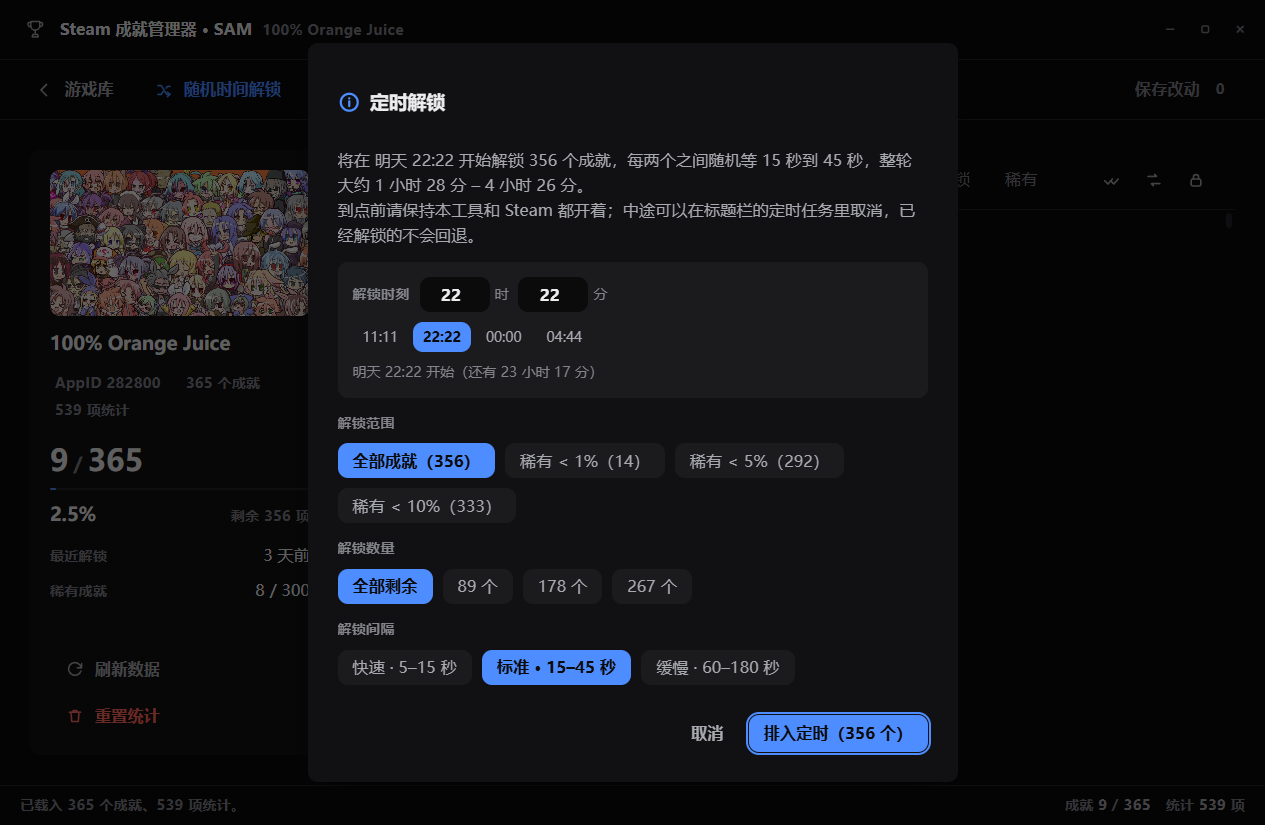
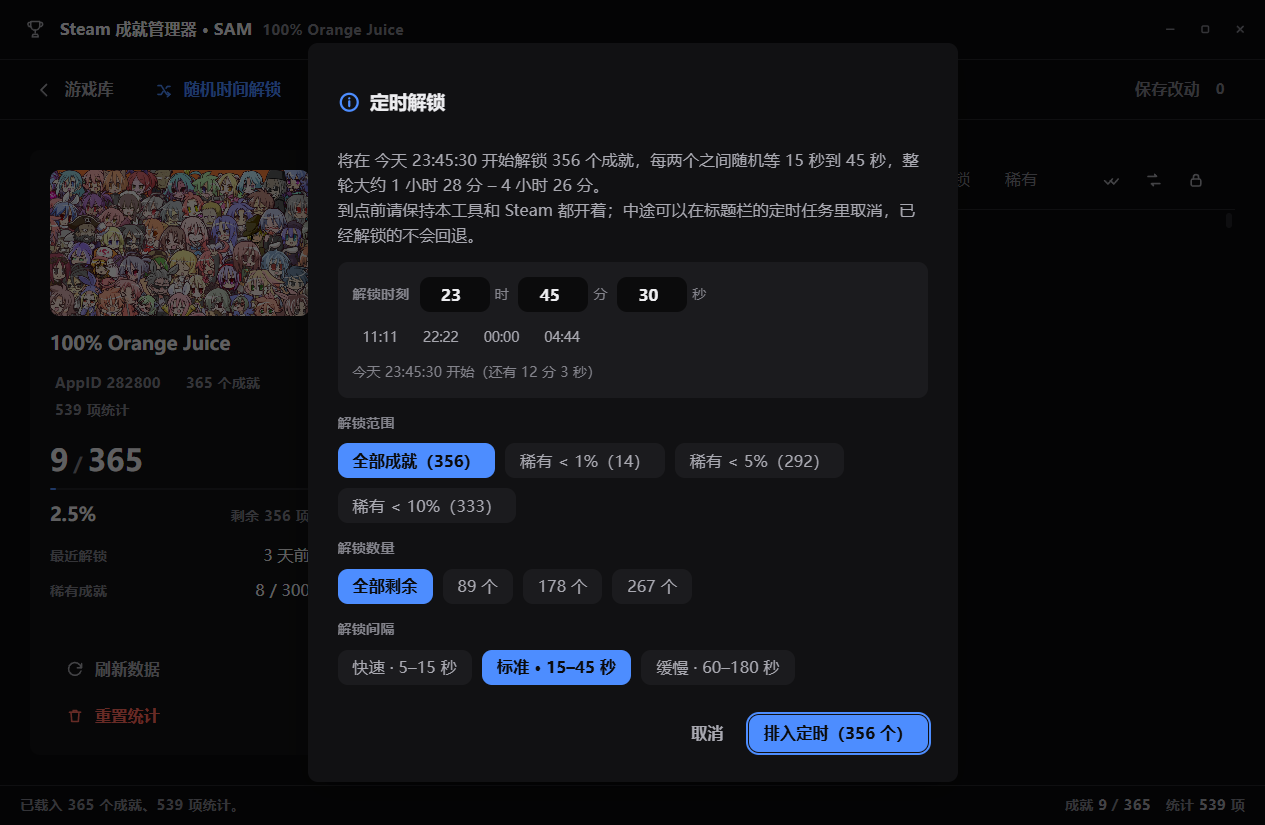
feat: 定时解锁精确到秒（v1.9.1）
解锁时刻增加「秒」输入；worker 改为提前 40 秒拉起、先预热 Steam 与候选成就，再毫秒级等到目标那一秒才开始写入（实测 drift 1ms）。任务列表与标题栏 chip 的时刻带秒显示（秒为 0 时仍显示 HH:mm）。

Changed region(s): [[0.2466, 0.1818, 0.7399, 0.2424], [0.3083, 0.3636, 0.4625, 0.4545], [0.4933, 0.3333, 0.5241, 0.3636]]

diff --git a/ui/app.js b/ui/app.js
@@ -1999,11 +1999,22 @@
     return two(hour) + ':' + two(minute);
   }
 
-  // 把「时 / 分」换算成下一次出现的绝对时刻：今天已经过了（或只剩不到 1 分钟）就顺延到明天。
-  function nextAt(hour, minute) {
+  function hhmmss(hour, minute, second) {
+    return hhmm(hour, minute) + ':' + two(second);
+  }
+
+  // 时刻显示：秒为 0 时省略（22:22 比 22:22:00 顺眼），非 0 才带秒。
+  function clockShort(date) {
+    return date.getSeconds() === 0
+      ? hhmm(date.getHours(), date.getMinutes())
+      : hhmmss(date.getHours(), date.getMinutes(), date.getSeconds());
+  }
+
+  // 把「时 / 分 / 秒」换算成下一次出现的绝对时刻：今天已经过了（或只剩不到 3 秒）就顺延到明天。
+  function nextAt(hour, minute, second) {
     var now = new Date();
-    var d = new Date(now.getFullYear(), now.getMonth(), now.getDate(), hour, minute, 0, 0);
-    if (d.getTime() <= now.getTime() + 60000) d = new Date(d.getTime() + 86400000);
+    var d = new Date(now.getFullYear(), now.getMonth(), now.getDate(), hour, minute, second || 0, 0);
+    if (d.getTime() <= now.getTime() + 3000) d = new Date(d.getTime() + 86400000);
     return d;
   }
 
@@ -2019,7 +2030,7 @@
   }
 
   function clockLabel(date) {
-    return two(date.getMonth() + 1) + '-' + two(date.getDate()) + ' ' + hhmm(date.getHours(), date.getMinutes());
+    return two(date.getMonth() + 1) + '-' + two(date.getDate()) + ' ' + clockShort(date);
   }
 
   function countdownText(date) {
@@ -2062,8 +2073,8 @@
     return RANDOM_GAPS.slice(0, 3);
   }
 
-  // 时刻输入行：时 / 分两个数字框 + 四个快捷时刻
-  function timeRowHtml(hour, minute) {
+  // 时刻输入行：时 / 分 / 秒三个数字框 + 四个快捷时刻
+  function timeRowHtml(hour, minute, second) {
     var h = ['<div class="sch-time">'];
     h.push('<span class="sch-time__cap">解锁时刻</span>');
     h.push('<label class="sch-time__field">');
@@ -2076,6 +2087,11 @@
       '" data-role="minute" aria-label="解锁时刻的分钟" />');
     h.push('<span class="gap-custom__suffix">分</span>');
     h.push('</label>');
+    h.push('<label class="sch-time__field">');
+    h.push('<input class="gap-custom__num" type="number" min="0" max="59" step="1" value="' + (second || 0) +
+      '" data-role="second" aria-label="解锁时刻的秒" />');
+    h.push('<span class="gap-custom__suffix">秒</span>');
+    h.push('</label>');
     h.push('</div>');
     h.push('<div class="sch-quick">');
     for (var i = 0; i < SCHEDULE_QUICK.length; i++) {
@@ -2087,14 +2103,17 @@
   }
 
   // 时刻输入的通用读数 + 收敛：输入框里允许随便打，算的时候夹到合法范围
-  function readClock(hourInput, minuteInput) {
+  function readClock(hourInput, minuteInput, secondInput) {
     var h = Math.floor(Number(hourInput && hourInput.value));
     var m = Math.floor(Number(minuteInput && minuteInput.value));
+    var s = Math.floor(Number(secondInput && secondInput.value));
     if (!isFinite(h)) h = 0;
     if (!isFinite(m)) m = 0;
+    if (!isFinite(s)) s = 0;
     h = Math.max(0, Math.min(23, h));
     m = Math.max(0, Math.min(59, m));
-    return { hour: h, minute: m };
+    s = Math.max(0, Math.min(59, s));
+    return { hour: h, minute: m, second: s };
   }
 
   /* ---------- 标题栏的定时任务入口 ---------- */
@@ -2114,8 +2133,8 @@
     setHidden(els.scheduleChip, false);
     if (els.scheduleChipText) {
       els.scheduleChipText.textContent = jobs.length === 1
-        ? dayLabel(d) + ' ' + hhmm(d.getHours(), d.getMinutes())
-        : jobs.length + ' 个定时 · ' + hhmm(d.getHours(), d.getMinutes());
+        ? dayLabel(d) + ' ' + clockShort(d)
+        : jobs.length + ' 个定时 · ' + clockShort(d);
     }
     els.scheduleChip.title = jobs.length + ' 个定时解锁任务，最近一个 ' + clockLabel(d) + ' 开始（点击查看）';
   }
@@ -2155,7 +2174,7 @@
 
   function jobMetaText(job) {
     var d = new Date((job.at || 0) * 1000);
-    var bits = [dayLabel(d) + ' ' + hhmm(d.getHours(), d.getMinutes())];
+    var bits = [dayLabel(d) + ' ' + clockShort(d)];
     if (job.done || job.total) {
       bits.push('进行中 ' + (job.done || 0) + ' / ' + (job.total || 0));
     } else if (job.count > 0) {
@@ -2185,7 +2204,7 @@
     if (jobs.length === 0) {
       parts.push('<p class="modal__text">还没有定时任务。在游戏页点「定时解锁」，或在游戏库点「定时批量解锁」。</p>');
     } else {
-      parts.push('<p class="modal__text">到点前请保持本工具和 Steam 都开着。任务只在开始前 25 秒拉起解锁进程，之后可以在任务上取消。</p>');
+      parts.push('<p class="modal__text">到点前请保持本工具和 Steam 都开着。任务在开始前 40 秒拉起解锁进程（先连好 Steam，再等到那一秒），之后可以在任务上取消。</p>');
       parts.push('<div class="sch-jobs">');
       for (var i = 0; i < jobs.length; i++) {
         var job = jobs[i];
@@ -2273,7 +2292,7 @@
   function openScheduleGameModal(pool) {
     closeModal();
     var list = Array.isArray(pool) ? pool : [];
-    var sel = { count: 0, gap: 1, rare: 0, hour: 22, minute: 22 };
+    var sel = { count: 0, gap: 1, rare: 0, hour: 22, minute: 22, second: 0 };
     var el = document.createElement('div');
     el.className = 'modal modal--wide';
     el.setAttribute('role', 'dialog');
@@ -2286,7 +2305,7 @@
     body.push('</div>');
     body.push('<p class="modal__text" data-role="summary"></p>');
     body.push('<div class="sch-block">');
-    body.push(timeRowHtml(sel.hour, sel.minute));
+    body.push(timeRowHtml(sel.hour, sel.minute, sel.second));
     body.push('<p class="gap-custom__hint" data-role="timeHint"></p>');
     body.push('</div>');
     body.push('<div data-role="rareBox">' + optGroupHtml('rare', '解锁范围', schedRareItems(list), 0) + '</div>');
@@ -2306,13 +2325,15 @@
     var timeHint = el.querySelector('[data-role="timeHint"]');
     var hourInput = el.querySelector('[data-role="hour"]');
     var minuteInput = el.querySelector('[data-role="minute"]');
+    var secondInput = el.querySelector('[data-role="second"]');
     var okBtn = el.querySelector('[data-role="ok"]');
 
     function targetDate() {
-      var c = readClock(hourInput, minuteInput);
+      var c = readClock(hourInput, minuteInput, secondInput);
       sel.hour = c.hour;
       sel.minute = c.minute;
-      return nextAt(c.hour, c.minute);
+      sel.second = c.second;
+      return nextAt(c.hour, c.minute, c.second);
     }
 
     function syncAll() {
@@ -2326,14 +2347,15 @@
       var delay = Math.min(5, gap.min);
       var totalLow = n > 0 ? delay + (n - 1) * gap.min : 0;
       var totalHigh = n > 0 ? delay + (n - 1) * gap.max : 0;
-      var clock = hhmm(target.getHours(), target.getMinutes());
+      var clock = clockShort(target);
 
       if (timeHint) {
-        timeHint.textContent = dayLabel(target) + ' ' + clock + ' 开始（' + countdownText(target) + '）';
+        var near = target.getTime() - Date.now() < 60000 ? '（时间很近，可能来不及预热 Steam，建议至少留 1 分钟）' : '';
+        timeHint.textContent = dayLabel(target) + ' ' + clock + ' 开始（' + countdownText(target) + '）' + near;
       }
       var qs = el.querySelectorAll('[data-quick]');
       for (var qi = 0; qi < qs.length; qi++) {
-        if (qs[qi].getAttribute('data-quick') === hhmm(sel.hour, sel.minute)) qs[qi].classList.add('is-active');
+        if (qs[qi].getAttribute('data-quick') === hhmm(sel.hour, sel.minute) && sel.second === 0) qs[qi].classList.add('is-active');
         else qs[qi].classList.remove('is-active');
       }
 
@@ -2360,6 +2382,8 @@
     if (hourInput) hourInput.addEventListener('change', syncAll);
     if (minuteInput) minuteInput.addEventListener('input', syncAll);
     if (minuteInput) minuteInput.addEventListener('change', syncAll);
+    if (secondInput) secondInput.addEventListener('input', syncAll);
+    if (secondInput) secondInput.addEventListener('change', syncAll);
 
     el.addEventListener('click', function (e) {
       var quick = e.target.closest ? e.target.closest('[data-quick]') : null;
@@ -2369,6 +2393,7 @@
         var m = Math.floor(Number(vs[1]));
         if (hourInput) hourInput.value = String(isFinite(h) ? h : 0);
         if (minuteInput) minuteInput.value = String(isFinite(m) ? m : 0);
+        if (secondInput) secondInput.value = '0';
         syncAll();
         return;
       }
@@ -2446,7 +2471,7 @@
 
   function openScheduleBatchModal(games) {
     closeModal();
-    var sel = { count: 0, gap: 1, hour: 22, minute: 22 };
+    var sel = { count: 0, gap: 1, hour: 22, minute: 22, second: 0 };
     var el = document.createElement('div');
     el.className = 'modal modal--wide';
     el.setAttribute('role', 'dialog');
@@ -2459,7 +2484,7 @@
     body.push('</div>');
     body.push('<p class="modal__text" data-role="summary"></p>');
     body.push('<div class="sch-block">');
-    body.push(timeRowHtml(sel.hour, sel.minute));
+    body.push(timeRowHtml(sel.hour, sel.minute, sel.second));
     body.push('<p class="gap-custom__hint" data-role="timeHint"></p>');
     body.push('</div>');
 
@@ -2499,15 +2524,17 @@
     var timeHint = el.querySelector('[data-role="timeHint"]');
     var hourInput = el.querySelector('[data-role="hour"]');
     var minuteInput = el.querySelector('[data-role="minute"]');
+    var secondInput = el.querySelector('[data-role="second"]');
     var pickedEl = el.querySelector('[data-role="picked"]');
     var gamesBox = el.querySelector('[data-role="games"]');
     var okBtn = el.querySelector('[data-role="ok"]');
 
     function targetDate() {
-      var c = readClock(hourInput, minuteInput);
+      var c = readClock(hourInput, minuteInput, secondInput);
       sel.hour = c.hour;
       sel.minute = c.minute;
-      return nextAt(c.hour, c.minute);
+      sel.second = c.second;
+      return nextAt(c.hour, c.minute, c.second);
     }
 
     function pickedIds() {
@@ -2528,15 +2555,16 @@
       var gaps = schedGaps();
       var gap = gaps[sel.gap] || gaps[1];
       var countOpt = SCHEDULE_BATCH_COUNTS[sel.count] || SCHEDULE_BATCH_COUNTS[0];
-      var clock = hhmm(target.getHours(), target.getMinutes());
+      var clock = clockShort(target);
 
       if (pickedEl) pickedEl.textContent = String(ids.length);
       if (timeHint) {
-        timeHint.textContent = dayLabel(target) + ' ' + clock + ' 开始（' + countdownText(target) + '）';
+        var near = target.getTime() - Date.now() < 60000 ? '（时间很近，可能来不及预热 Steam，建议至少留 1 分钟）' : '';
+        timeHint.textContent = dayLabel(target) + ' ' + clock + ' 开始（' + countdownText(target) + '）' + near;
       }
       var qs = el.querySelectorAll('[data-quick]');
       for (var qi = 0; qi < qs.length; qi++) {
-        if (qs[qi].getAttribute('data-quick') === hhmm(sel.hour, sel.minute)) qs[qi].classList.add('is-active');
+        if (qs[qi].getAttribute('data-quick') === hhmm(sel.hour, sel.minute) && sel.second === 0) qs[qi].classList.add('is-active');
         else qs[qi].classList.remove('is-active');
       }
       if (summaryText) {
@@ -2558,6 +2586,8 @@
     if (hourInput) hourInput.addEventListener('change', syncAll);
     if (minuteInput) minuteInput.addEventListener('input', syncAll);
     if (minuteInput) minuteInput.addEventListener('change', syncAll);
+    if (secondInput) secondInput.addEventListener('input', syncAll);
+    if (secondInput) secondInput.addEventListener('change', syncAll);
     if (gamesBox) gamesBox.addEventListener('change', syncAll);
 
     el.addEventListener('click', function (e) {
@@ -2568,6 +2598,7 @@
         var m = Math.floor(Number(vs[1]));
         if (hourInput) hourInput.value = String(isFinite(h) ? h : 0);
         if (minuteInput) minuteInput.value = String(isFinite(m) ? m : 0);
+        if (secondInput) secondInput.value = '0';
         syncAll();
         return;
       }
@@ -3433,7 +3464,7 @@
   }
 
   window.SAM = {
-    version: '1.9.0',
+    version: '1.9.1',
     handleEvent: handleEvent,
     mock: enterMock,
     getState: function () {

diff --git a/src/ScheduleWorker.cs b/src/ScheduleWorker.cs
@@ -27,20 +27,14 @@ namespace SAM.Modern
             int jitter = 0;
             if (job.Jitter > 0) jitter = new Random().Next(0, job.Jitter + 1);
             long target = job.At + jitter;
+            long targetMs = target * 1000L;
             Log.Write("schedule worker: id=" + job.Id + " appId=" + job.AppId + " target=" + target
-                + " jitter=" + jitter + " now=" + ScheduleStore.Now());
+                + " jitter=" + jitter + " now=" + ScheduleStore.Now() + " nowMs=" + ScheduleStore.NowMs());
 
             ScheduleStore.WriteProgress(job.Id, 0, 0, "", target);
 
-            // 先睡到目标时刻。每 250ms 醒一次，睡眠不会累积误差。
-            while (true)
-            {
-                long now = ScheduleStore.Now();
-                long remain = target - now;
-                if (remain <= 0) break;
-                Thread.Sleep(remain > 2 ? 250 : 100);
-            }
-
+            // 先把 Steam 连接、统计数据、候选成就全部准备好，再等到目标那一秒动手。
+            // 这样「到点」指的就是第一个成就真正写进 Steam 的时刻，而不是进程被拉起的时刻。
             var host = new SteamHost();
             bool statsReady = false;
             try
@@ -86,6 +80,16 @@ namespace SAM.Modern
                 try { host.Dispose(); } catch (Exception) { }
                 return;
             }
+
+            // 等到目标时刻（毫秒级对齐）：最后 10ms 才细睡，避免长时间空转。
+            while (true)
+            {
+                long remain = targetMs - ScheduleStore.NowMs();
+                if (remain <= 0) break;
+                Thread.Sleep((int)Math.Min(remain, 10));
+            }
+            Log.Write("schedule worker: reached target nowMs=" + ScheduleStore.NowMs() + " driftMs=" +
+                      (ScheduleStore.NowMs() - targetMs));
 
             Log.Write("schedule worker: unlocking " + ids.Count + " achievements");
             var api = host.Client.SteamUserStats;

diff --git a/src/Schedule.cs b/src/Schedule.cs
@@ -45,6 +45,12 @@ namespace SAM.Modern
             return (long)(DateTime.UtcNow - new DateTime(1970, 1, 1, 0, 0, 0, DateTimeKind.Utc)).TotalSeconds;
         }
 
+        /// <summary>毫秒级当前时间：worker 等到精确的某一秒要用，秒级精度会抖 ±1s。</summary>
+        public static long NowMs()
+        {
+            return (long)(DateTime.UtcNow - new DateTime(1970, 1, 1, 0, 0, 0, DateTimeKind.Utc)).TotalMilliseconds;
+        }
+
         public static string JobPath(string id) { return Path.Combine(Root, "job-" + id + ".json"); }
         public static string ClaimPath(string id) { return Path.Combine(Root, "job-" + id + ".claim"); }
         public static string ProgressPath(string id) { return Path.Combine(Root, "job-" + id + ".progress"); }
@@ -260,7 +266,7 @@ namespace SAM.Modern
         private readonly Dictionary<string, long> _running = new Dictionary<string, long>(StringComparer.Ordinal);
         private string _lastPublished;
 
-        private const int LeadSeconds = 25;      // 提前多久把 worker 拉起来（worker 自己等到点）
+        private const int LeadSeconds = 40;      // 提前多久把 worker 拉起来（worker 先连 Steam 备好数据，再等到点）
         private const int LateGraceSeconds = 3600;
         private const int ClaimStaleSeconds = 180;
 

diff --git a/README.md b/README.md
@@ -10,7 +10,7 @@
 一个把「Steam 成就 / 统计」变成可视化勾选列表的小工具：点开游戏 → 看到全部成就卡片 → 勾选 → 保存，改写的是
 **你在 Steam 客户端本地的用户数据**（不上传、不联网写库）。
 
-当前版本 **v1.9.0**：新增**定时解锁** —— 把解锁时间定在某个具体的分钟（例如 22:22），到点自动按随机间隔逐个解锁，期间可以关掉窗口去干别的；还支持**多个游戏在同一分钟一起开始**解锁。
+当前版本 **v1.9.1**：新增**定时解锁** —— 把解锁时间定到具体的**时:分:秒**（例如 22:22:30），到点自动按随机间隔逐个解锁，期间可以关掉窗口去干别的；还支持**多个游戏在同一秒一起开始**解锁。
 
 双仓同步发布：[GitHub](https://github.com/Knight003300/SAM-Modern) · [Gitee](https://gitee.com/arasy/SAM-Modern)（国内访问更快）。
 
@@ -48,7 +48,7 @@
 | 封面 | 候选链回落：本地 `appcache\librarycache`（header → capsule → hero → 600x900）→ Steam CDN → 字母占位。个别新游戏只有 `library_hero.jpg`，也能显示 |
 | 成就页 | 行列表展示全部成就（图标、名称、描述、隐藏标记、解锁时间），点整行勾选切换状态；筛选栏的「稀有」一键只看全服解锁率低于 5% 的成就，右侧显示「稀有 x.x%」 |
 | 批量操作 | 全选 / 反选 / 锁定全部 —— 只在界面内暂存，按「保存改动」或 `Ctrl+S` 才写入 Steam |
-| 定时解锁 | 把解锁时间定在某个具体的分钟：游戏页工具栏「定时解锁」选好数量与间隔、填上「时:分」（或点 11:11 / 22:22 / 00:00 / 04:44 快捷时刻），点「排入定时」即可；到点前 25 秒由宿主拉起一个隐藏的解锁进程，按随机间隔逐个真实解锁。游戏库工具栏「定时批量解锁」可以勾选多个游戏共用一个时刻，它们会在同一分钟各自开始（每个游戏一个独立进程并行）。任务存在程序目录 `schedule\` 下，关掉再开仍在；标题栏会出现「N 个定时 · HH:mm」的 chip，点开可看倒计时并取消。**到点时本工具必须还开着、Steam 要在运行**，否则任务不会执行 |
+| 定时解锁 | 把解锁时间定在某个具体的**时:分:秒**：游戏页工具栏「定时解锁」选好数量与间隔、填上时刻（或点 11:11 / 22:22 / 00:00 / 04:44 快捷时刻，秒留 0），点「排入定时」即可；到点前 40 秒由宿主拉起一个隐藏的解锁进程，它会先连好 Steam 备好数据，再等到那一秒精确开跑，之后按随机间隔逐个真实解锁。游戏库工具栏「定时批量解锁」可以勾选多个游戏共用一个时刻，它们会在**同一秒**各自开始（每个游戏一个独立进程并行）。任务存在程序目录 `schedule\` 下，关掉再开仍在；标题栏会出现「N 个定时 · HH:mm」的 chip（时刻带秒时显示 HH:mm:ss），点开可看倒计时并取消。**到点时本工具必须还开着、Steam 要在运行**，否则任务不会执行 |
 | 随机时间解锁 | 工具栏最左侧的蓝色按钮。按随机间隔逐个真实解锁：预设快速 5–15 秒 / 标准 15–45 秒 / 缓慢 60–180 秒，也可自定义最短–最长间隔（分别填**天 / 小时 / 分钟 / 秒**四个数值，单个间隔上限 7 天），弹窗会按「首个延迟 + (数量 − 1) × 间隔」实时估算整轮耗时区间（下限–上限，三档预设与自定义共用同一套算法），并写明过程中可随时停止、已解锁的不回退。每解锁一个立刻单独 `StoreStats()`，因此每个成就都由 Steam 记下各自的真实时间，不会全部挤在同一秒。解锁数量可选「全部剩余」或剩余数的 1/4、1/2、3/4（按实际成就数换算成具体个数显示）。「解锁范围」可只解锁稀有成就（全服解锁率 < 1% / < 5% / < 10% 三档，每档括号里显示当前可解锁个数），进度条实时显示，随时可停 |
 | 统计页 | 可编辑数值表格，显示取值范围（`≥ 0`、`不限`）与「只增 / 受保护」标记 |
 | 进度 | 左栏大数字 + 细进度条实时显示解锁进度（例 `91 / 200`、`45.5% · 剩余 109 项`）；下方事实区显示「最近解锁」与「稀有成就」两项，不再重复大数字与 AppID 行 |
@@ -156,12 +156,20 @@ screenshots/            界面截图
 
 ## 更新日志
 
+### v1.9.1
+
+- **定时解锁精确到秒**：「解锁时刻」在原来「时 / 分」后面多了一个「秒」输入框，可以定成 22:22:30 这样的时刻；秒留 0 就是整分，行为与上一版一致。快捷时刻按钮（11:11 / 22:22 / 00:00 / 04:44）会把秒自动归零。
+- **到点更准**：解锁进程改为**提前 40 秒**拉起，先把 Steam 连接、统计数据和候选成就全部准备好，再毫秒级等到目标那一秒才写入第一个成就。实测触发误差 1ms（日志里的 `driftMs`）。因此「到点」指的是第一个成就真正写进 Steam 的时刻，而不是进程被拉起的时刻。
+- 任务列表、标题栏 chip 的时刻显示会自动带上秒（秒为 0 时仍只显示 `HH:mm`，避免整分任务显示成 `22:22:00`）。
+- 时刻填得太近（不到 1 分钟）时，弹窗会提示「可能来不及预热 Steam」。
+- 版本号升到 1.9.1。
+
 ### v1.9.0
 
-- **新增定时解锁**：游戏页工具栏多一个「定时解锁」按钮 —— 选好解锁数量与间隔，再把「解锁时刻」填成想要的**时:分**（弹窗里另给了 11:11 / 22:22 / 00:00 / 04:44 四个快捷时刻），点「排入定时」即可。到点后由后台进程按随机间隔逐个真实解锁，每个成就依旧由 Steam 记下各自的真实时间。
-- **多游戏同一分钟一起解锁**：游戏库工具栏多一个「定时批量解锁」按钮 —— 勾选任意多个游戏、设一个共同时刻，它们会在同一分钟各自开始（每个游戏一个独立后台进程并行跑，互不阻塞）。
+- **新增定时解锁**：游戏页工具栏多一个「定时解锁」按钮 —— 选好解锁数量与间隔，再把「解锁时刻」填成想要的**时:分:秒**（弹窗里另给了 11:11 / 22:22 / 00:00 / 04:44 四个快捷时刻），点「排入定时」即可。到点后由后台进程按随机间隔逐个真实解锁，每个成就依旧由 Steam 记下各自的真实时间。
+- **多游戏同一秒一起解锁**：游戏库工具栏多一个「定时批量解锁」按钮 —— 勾选任意多个游戏、设一个共同时刻，它们会在同一秒各自开始（每个游戏一个独立后台进程并行跑，互不阻塞）。
 - **标题栏定时任务 chip**：有待执行任务时，标题栏左侧出现「N 个定时 · HH:mm」，点开能看到每条任务的游戏、时刻、解锁数量、间隔与倒计时，也能在那里直接取消；状态栏同时显示任务数量。
-- **任务落盘**：一条任务一个 JSON 文件，存在程序目录 `schedule\` 下，关掉程序再打开仍然在。到点前 25 秒才会拉起解锁进程，之前不占 Steam 管道；解锁进程不弹窗口、不开 WebView2。
+- **任务落盘**：一条任务一个 JSON 文件，存在程序目录 `schedule\` 下，关掉程序再打开仍然在。到点前 40 秒才会拉起解锁进程（先预热 Steam，再等到精确的那一秒），之前不占 Steam 管道；解锁进程不弹窗口、不开 WebView2。
 - **过期任务自动清理**：到点后一小时内没跑上的任务会被标为「已错过」并从列表里清掉，不会无限堆积。
 - 版本号升到 1.9.0。
 

diff --git a/使用说明.md b/使用说明.md
@@ -37,7 +37,7 @@
 | 保存 | 只提交改动项，写回 Steam 后自动刷新并弹出「已保存」提示。保存按钮上的数量徽标常驻显示当前待保存的改动处数（0 时用弱化色），按钮文案也随数量变化 |
 | 重置 | 二次确认弹窗，可选是否同时清除全部成就的解锁状态 |
 | 随机时间解锁 | 工具栏左侧的「随机时间解锁」按钮：解锁数量可选「全部剩余」，或剩余数的 1/4、1/2、3/4（按钮上直接显示换算后的成就个数）；「解锁范围」可选全部成就，或只解锁稀有成就（全服解锁率 < 1% / < 5% / < 10% 三档，括号里是当前还能解锁的个数）。间隔可选预设快速 5–15 秒 / 标准 15–45 秒 / 缓慢 60–180 秒，或选「自定义」后分别填写**天 / 小时 / 分钟 / 秒**四个数值来指定最短与最长间隔（单个间隔上限 7 天），弹窗会实时算出整轮大约需要多久（按「首个延迟 + (数量 − 1) × 间隔」给出下限–上限区间，三档预设与自定义共用同一套算法），并说明过程中可以随时停止、已解锁的不会回退。程序按随机间隔逐个真实解锁，每个成就拿到各自的解锁时间。进度条实时显示，点「停止」或按 Esc 可中止（已解锁的不回滚） |
-| 定时解锁 | 把解锁时间定在某个具体的分钟：游戏页工具栏「定时解锁」→ 选数量与间隔 → 把「解锁时刻」填成想要的**时:分**（或点 11:11 / 22:22 / 00:00 / 04:44 快捷时刻）→「排入定时」。到点前 25 秒程序会拉起一个隐藏的解锁进程，按随机间隔逐个真实解锁，每个成就仍由 Steam 记下各自的真实时间。**到点时本工具必须还开着**（最小化、隐藏待命都行，进程不能退出）且 Steam 在运行，否则任务不会执行；任务存在程序目录 `schedule\` 下，关掉再开仍在 |
+| 定时解锁 | 把解锁时间定在某个具体的**时:分:秒**：游戏页工具栏「定时解锁」→ 选数量与间隔 → 把「解锁时刻」填成想要的时刻（或点 11:11 / 22:22 / 00:00 / 04:44 快捷时刻，秒留 0）→「排入定时」。到点前 40 秒程序会拉起一个隐藏的解锁进程：它先连好 Steam、备好候选成就，再等到那一秒精确开跑，然后按随机间隔逐个真实解锁，每个成就仍由 Steam 记下各自的真实时间。**到点时本工具必须还开着**（最小化、隐藏待命都行，进程不能退出）且 Steam 在运行，否则任务不会执行；任务存在程序目录 `schedule\` 下，关掉再开仍在 |
 | 定时批量解锁 | 游戏库工具栏的「定时批量解锁」：勾选任意多个游戏 + 一个共同时刻，它们会在**同一分钟**各自开始解锁（每个游戏一个独立后台进程并行，互不阻塞）。适合一次性把几个游戏的成就都排到同一个时间点 |
 | 定时任务列表 | 有待执行任务时标题栏左侧出现「N 个定时 · HH:mm」的 chip，点开可看每条任务的游戏、时刻、解锁数量、间隔与倒计时，也能在那里取消；状态栏同时显示任务数量 |
 | 受保护项 | 权限位含保护的成就自动跳过并提示（与原版一致） |
@@ -63,7 +63,7 @@
 - 提示「Steam 未运行」→ 先启动 Steam 并登录后重试。
 - 提示「一般性错误」→ 通常表示该账号未拥有此游戏（家庭共享的成就无法写入）。
 - 打开时多出一个**黑色命令行窗口** → 这是 v1.7.0 及更早版本的已知问题（程序按控制台子系统链接），v1.8.0 起已修复；升级到最新版即可，那个黑框不要再手动关（关掉等于让工具退出）。
-- 定时解锁**到点没反应** → 先确认到点时本工具还开着（最小化、隐藏待命都行，但进程不能退出）、Steam 在运行且已登录；再看到点后是否先有一小段准备时间（解锁进程要先等 Steam 统计数据就绪，通常几秒）。任务只在本地排队，程序退出后不会补跑；过了点一小时还没跑上的任务会被标为「已错过」并清掉。
+- 定时解锁**到点没反应** → 先确认到点时本工具还开着（最小化、隐藏待命都行，但进程不能退出）、Steam 在运行且已登录。解锁进程在到点前 40 秒就会被拉起并连好 Steam，正常情况下到点那一刻就开始写；如果填的时刻离现在不到 1 分钟，可能来不及预热，弹窗会给出提示。任务只在本地排队，程序退出后不会补跑；过了点一小时还没跑上的任务会被标为「已错过」并清掉。
 - 定时任务**列表里看不到刚建的任务** → 任务文件写在程序目录的 `schedule\` 下；如果程序装在 `Program Files` 这类需要管理员权限的目录，写文件会失败并提示「任务文件写入失败」。把整个目录放到可写位置（例如桌面、D 盘）即可。
 - 想**取消**一条定时任务 → 点标题栏的「N 个定时」chip 打开任务列表，在对应任务右侧点「取消」；任务已经开始执行（列表里显示「进行中」）后取消只会删掉任务记录，已经在解锁的进程会继续跑完。
 ## 六、关于「Windows 已保护你的电脑」提示

diff --git a/docs-BRIDGE.md b/docs-BRIDGE.md
@@ -81,7 +81,7 @@ Game：
   排一条定时解锁任务，写入 `<程序目录>\schedule\job-<id>.json`。`count=0` 表示「全部剩余」；`achievements` 非空时按这个显式列表解锁（忽略 `count`/`rareOnly`）。
   `at` 必须晚于当前时间 2 秒、且不超过一年；`minGap>=1`、`maxGap>=minGap`、`maxGap<=7 天`、`rarePct` 0–100、`jitter` 0–3600 秒，越界值由 C# 侧夹紧。
 - `{cmd:"schedule/createBatch", at:number, minGap:number, maxGap:number, jitter?:number, language?:string, games:[{ appId, gameName, count, rareOnly?, rarePct? }]}`
-  一次排多条任务（多游戏同一分钟开始）。公共字段会补进每个 game 项（只在缺键时补），逐条走与 `schedule/create` 相同的校验与落盘。
+  一次排多条任务（多游戏同一秒开始）。公共字段会补进每个 game 项（只在缺键时补），逐条走与 `schedule/create` 相同的校验与落盘。
 - `{cmd:"schedule/cancel", id:string}`  删掉一条任务（同时删 job / claim / progress / result 文件）
 
 定时任务的执行是**独立隐藏进程**：调度器在 `at - 25s` 时 `Process.Start(自身 exe, "--run-job <job 文件>")`，`UseShellExecute=false`、`CreateNoWindow=true`，该进程不建窗口、不初始化 WebView2，只做 `SetAchievement` + `StoreStats` 并写回 `result-<id>.json`。因此**程序退出后任务不会执行**。
